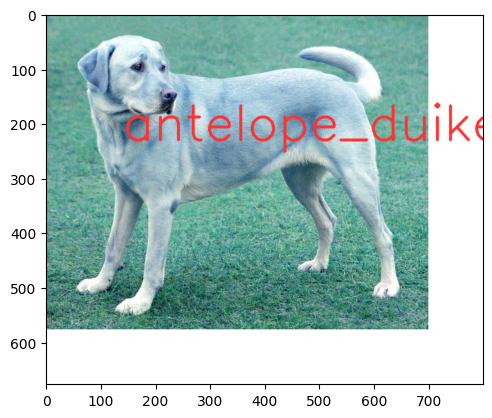
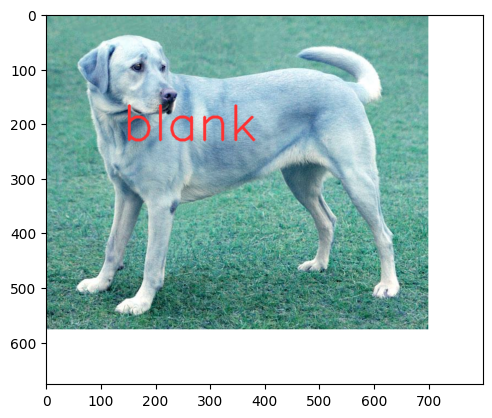
checkpoint

Changed region(s): [[0.3049, 0.2488, 1.0, 0.3421], [0.2439, 0.2488, 0.3049, 0.3421]]

diff --git a/README.md b/README.md
@@ -48,6 +48,7 @@ cursor = connect_to_server()
 
 
 ```python
+!wget -nc "https://raw.githubusercontent.com/jarulraj/animal-detection/main/animal_image_classifier.py"
 cursor.execute("DROP UDF AnimalDetectorPlus;")
 response = cursor.fetch_all()
 print(response)
@@ -62,24 +63,26 @@ response = cursor.fetch_all()
 print(response)
 ```
 
+    File ‘animal_image_classifier.py’ already there; not retrieving.
+    
     @status: ResponseStatus.SUCCESS
     @batch: 
                                                   0
     0  UDF AnimalDetectorPlus successfully dropped
-    @query_time: 0.017931774957105517
+    @query_time: 0.020055283093824983
     @status: ResponseStatus.SUCCESS
     @batch: 
                                                                  0
     0  UDF AnimalDetectorPlus successfully added to the database.
-    @query_time: 3.2704382149968296
+    @query_time: 3.3216339910868555
 
 
 ## Download Images
 
 
 ```python
-!wget -nc "https://raw.githubusercontent.com/jarulraj/animal-detection/main/dog.png"
-!wget -nc "https://raw.githubusercontent.com/jarulraj/animal-detection/main/giraffe.png"
+!wget -nc "https://raw.githubusercontent.com/jarulraj/animal-detection/main/dog.jpg"
+!wget -nc "https://raw.githubusercontent.com/jarulraj/animal-detection/main/giraffe.jpg"
 
 # DOWNLOAD ADDITIONAL IMAGES IF NEEDED AND LOAD THEM
 !tail -n 50 eva.log
@@ -99,59 +102,51 @@ response = cursor.fetch_all()
 print(response)
 ```
 
-    --2023-01-14 22:55:46--  https://raw.githubusercontent.com/jarulraj/animal-detection/main/dog.png
-    Resolving raw.githubusercontent.com (raw.githubusercontent.com)... 185.199.110.133, 185.199.111.133, 185.199.108.133, ...
-    Connecting to raw.githubusercontent.com (raw.githubusercontent.com)|185.199.110.133|:443... connected.
-    HTTP request sent, awaiting response... 404 Not Found
-    2023-01-14 22:55:46 ERROR 404: Not Found.
+    File ‘dog.jpg’ already there; not retrieving.
     
-    --2023-01-14 22:55:46--  https://raw.githubusercontent.com/jarulraj/animal-detection/main/giraffe.png
-    Resolving raw.githubusercontent.com (raw.githubusercontent.com)... 185.199.109.133, 185.199.108.133, 185.199.111.133, ...
-    Connecting to raw.githubusercontent.com (raw.githubusercontent.com)|185.199.109.133|:443... connected.
-    HTTP request sent, awaiting response... 404 Not Found
-    2023-01-14 22:55:46 ERROR 404: Not Found.
+    File ‘giraffe.jpg’ already there; not retrieving.
     
-    01-14-2023 22:55:30 INFO  [catalog_manager:catalog_manager.py:_bootstrap_catalog:0077] Bootstrapping catalog
-    01-14-2023 22:55:30 INFO  [base_model:base_model.py:init_db:0103] Creating tables
-    01-14-2023 22:55:30 INFO  [timer:timer.py:log_elapsed_time:0045] Query Compile Time: 0.4716 sec
-    01-14-2023 22:55:30 WARNING[create_udf_executor:create_udf_executor.py:exec:0042] UDF FastRCNNObjectDetector already exists, nothing added.
-    01-14-2023 22:55:30 INFO  [timer:timer.py:log_elapsed_time:0045] Query Compile Time: 0.0015 sec
-    01-14-2023 22:55:30 WARNING[create_udf_executor:create_udf_executor.py:exec:0042] UDF Array_Count already exists, nothing added.
-    01-14-2023 22:55:30 INFO  [timer:timer.py:log_elapsed_time:0045] Query Compile Time: 0.0012 sec
-    01-14-2023 22:55:30 WARNING[create_udf_executor:create_udf_executor.py:exec:0042] UDF Crop already exists, nothing added.
-    01-14-2023 22:55:30 INFO  [timer:timer.py:log_elapsed_time:0045] Query Compile Time: 0.0012 sec
-    01-14-2023 22:55:30 WARNING[create_udf_executor:create_udf_executor.py:exec:0042] UDF Open already exists, nothing added.
-    01-14-2023 22:55:30 INFO  [timer:timer.py:log_elapsed_time:0045] Query Compile Time: 0.0013 sec
-    01-14-2023 22:55:30 WARNING[create_udf_executor:create_udf_executor.py:exec:0042] UDF YoloV5 already exists, nothing added.
-    01-14-2023 22:55:30 INFO  [timer:timer.py:log_elapsed_time:0045] Query Compile Time: 0.0019 sec
-    01-14-2023 22:55:30 WARNING[create_udf_executor:create_udf_executor.py:exec:0042] UDF Similarity already exists, nothing added.
-    01-14-2023 22:55:30 INFO  [timer:timer.py:log_elapsed_time:0045] Query Compile Time: 0.0011 sec
-    01-14-2023 22:55:30 WARNING[create_udf_executor:create_udf_executor.py:exec:0042] UDF DummyObjectDetector already exists, nothing added.
-    01-14-2023 22:55:30 INFO  [timer:timer.py:log_elapsed_time:0045] Query Compile Time: 0.0010 sec
-    01-14-2023 22:55:30 WARNING[create_udf_executor:create_udf_executor.py:exec:0042] UDF DummyMultiObjectDetector already exists, nothing added.
-    01-14-2023 22:55:30 INFO  [timer:timer.py:log_elapsed_time:0045] Query Compile Time: 0.0010 sec
-    01-14-2023 22:55:30 WARNING[create_udf_executor:create_udf_executor.py:exec:0042] UDF DummyFeatureExtractor already exists, nothing added.
-    01-14-2023 22:55:30 INFO  [server:server.py:start_server:0096] Start Server
-    01-14-2023 22:55:30 INFO  [server:server.py:start_server:0118] PID(3319930) serving on ('0.0.0.0', 5432)
-    01-14-2023 22:55:42 INFO  [timer:timer.py:log_elapsed_time:0045] Query Compile Time: 0.0023 sec
-    01-14-2023 22:55:42 INFO  [timer:timer.py:log_elapsed_time:0045] Query Response Time: 0.0179 sec
-    01-14-2023 22:55:42 INFO  [timer:timer.py:log_elapsed_time:0045] Query Compile Time: 0.0013 sec
-    01-14-2023 22:55:45 INFO  [timer:timer.py:log_elapsed_time:0045] Query Response Time: 3.2704 sec
+    01-14-2023 23:02:45 INFO  [catalog_manager:catalog_manager.py:_bootstrap_catalog:0077] Bootstrapping catalog
+    01-14-2023 23:02:45 INFO  [base_model:base_model.py:init_db:0103] Creating tables
+    01-14-2023 23:02:45 INFO  [timer:timer.py:log_elapsed_time:0045] Query Compile Time: 0.4856 sec
+    01-14-2023 23:02:45 WARNING[create_udf_executor:create_udf_executor.py:exec:0042] UDF FastRCNNObjectDetector already exists, nothing added.
+    01-14-2023 23:02:45 INFO  [timer:timer.py:log_elapsed_time:0045] Query Compile Time: 0.0015 sec
+    01-14-2023 23:02:45 WARNING[create_udf_executor:create_udf_executor.py:exec:0042] UDF Array_Count already exists, nothing added.
+    01-14-2023 23:02:45 INFO  [timer:timer.py:log_elapsed_time:0045] Query Compile Time: 0.0012 sec
+    01-14-2023 23:02:45 WARNING[create_udf_executor:create_udf_executor.py:exec:0042] UDF Crop already exists, nothing added.
+    01-14-2023 23:02:45 INFO  [timer:timer.py:log_elapsed_time:0045] Query Compile Time: 0.0012 sec
+    01-14-2023 23:02:45 WARNING[create_udf_executor:create_udf_executor.py:exec:0042] UDF Open already exists, nothing added.
+    01-14-2023 23:02:45 INFO  [timer:timer.py:log_elapsed_time:0045] Query Compile Time: 0.0013 sec
+    01-14-2023 23:02:45 WARNING[create_udf_executor:create_udf_executor.py:exec:0042] UDF YoloV5 already exists, nothing added.
+    01-14-2023 23:02:45 INFO  [timer:timer.py:log_elapsed_time:0045] Query Compile Time: 0.0020 sec
+    01-14-2023 23:02:45 WARNING[create_udf_executor:create_udf_executor.py:exec:0042] UDF Similarity already exists, nothing added.
+    01-14-2023 23:02:45 INFO  [timer:timer.py:log_elapsed_time:0045] Query Compile Time: 0.0010 sec
+    01-14-2023 23:02:45 WARNING[create_udf_executor:create_udf_executor.py:exec:0042] UDF DummyObjectDetector already exists, nothing added.
+    01-14-2023 23:02:45 INFO  [timer:timer.py:log_elapsed_time:0045] Query Compile Time: 0.0010 sec
+    01-14-2023 23:02:45 WARNING[create_udf_executor:create_udf_executor.py:exec:0042] UDF DummyMultiObjectDetector already exists, nothing added.
+    01-14-2023 23:02:45 INFO  [timer:timer.py:log_elapsed_time:0045] Query Compile Time: 0.0010 sec
+    01-14-2023 23:02:45 WARNING[create_udf_executor:create_udf_executor.py:exec:0042] UDF DummyFeatureExtractor already exists, nothing added.
+    01-14-2023 23:02:45 INFO  [server:server.py:start_server:0096] Start Server
+    01-14-2023 23:02:45 INFO  [server:server.py:start_server:0118] PID(3322041) serving on ('0.0.0.0', 5432)
+    01-14-2023 23:02:57 INFO  [timer:timer.py:log_elapsed_time:0045] Query Compile Time: 0.0026 sec
+    01-14-2023 23:02:57 INFO  [timer:timer.py:log_elapsed_time:0045] Query Response Time: 0.0201 sec
+    01-14-2023 23:02:57 INFO  [timer:timer.py:log_elapsed_time:0045] Query Compile Time: 0.0031 sec
+    01-14-2023 23:03:01 INFO  [timer:timer.py:log_elapsed_time:0045] Query Response Time: 3.3216 sec
     @status: ResponseStatus.SUCCESS
     @batch: 
                                            0
     0  Table Successfully dropped: MyImages
-    @query_time: 0.040990988025441766
+    @query_time: 0.04618633398786187
     @status: ResponseStatus.SUCCESS
     @batch: 
                                 0
     0  Number of loaded IMAGE: 1
-    @query_time: 0.05347057105973363
+    @query_time: 0.054835226852446795
     @status: ResponseStatus.SUCCESS
     @batch: 
-                 animaldetectorplus.labels              animaldetectorplus.scores
-    0  [antelope_duiker, blank, elephant]  [0.101525314, 0.41555563, 0.10073346]
-    @query_time: 1.8663458011578768
+       animaldetectorplus.labels animaldetectorplus.scores
+    0         [blank, elephant]  [0.38127035, 0.10382664]
+    @query_time: 1.9400530150160193
 
 
 ### Annotate Model Output on Image
@@ -208,8 +203,8 @@ dataframe = response.batch.frames
 annotate_image_ocr(dataframe, 'dog.jpg', frame_id = 0)
 ```
 
-                animaldetectorplus.labels              animaldetectorplus.scores
-    0  [antelope_duiker, blank, elephant]  [0.101525314, 0.41555563, 0.10073346]
+      animaldetectorplus.labels animaldetectorplus.scores
+    0         [blank, elephant]  [0.38127035, 0.10382664]
 
 
 
@@ -221,11 +216,5 @@ annotate_image_ocr(dataframe, 'dog.jpg', frame_id = 0)
 
     
 ![png](README_files/README_12_2.png)
-    
-
-
-
-    
-![png](README_files/README_12_3.png)
     
 
